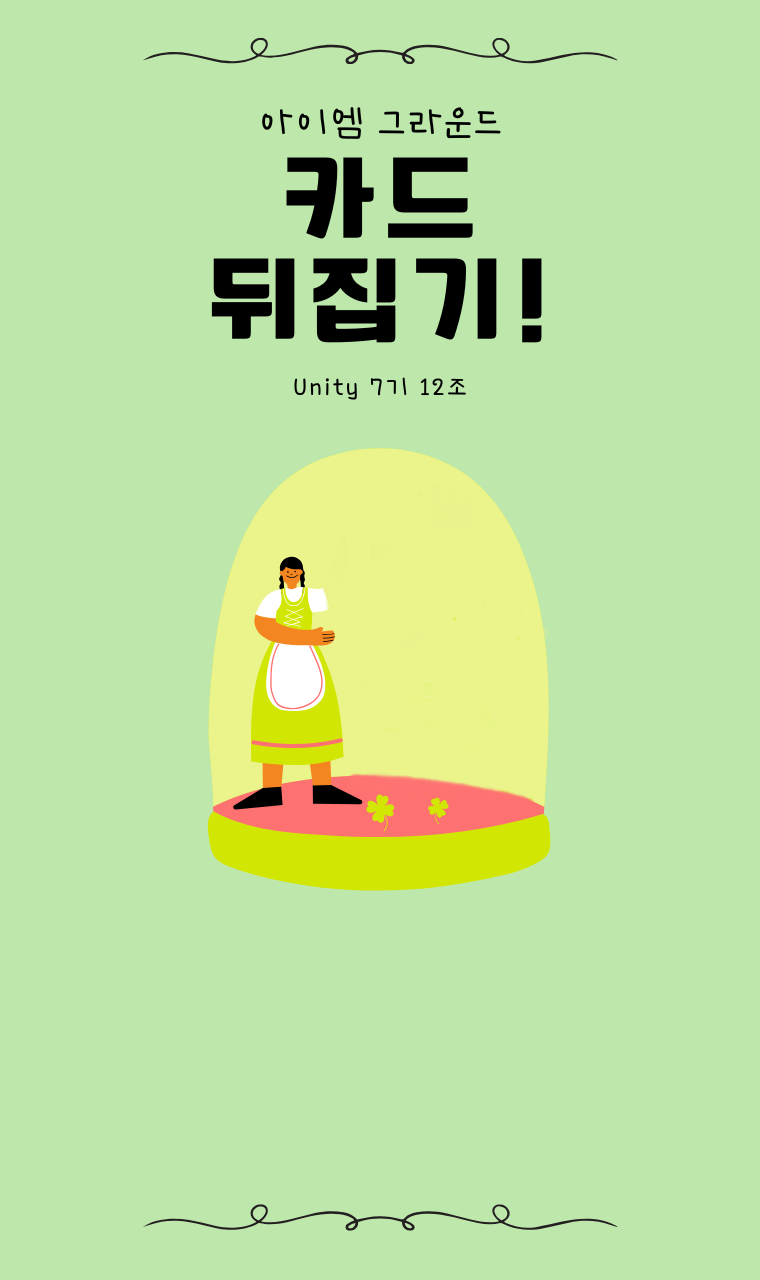
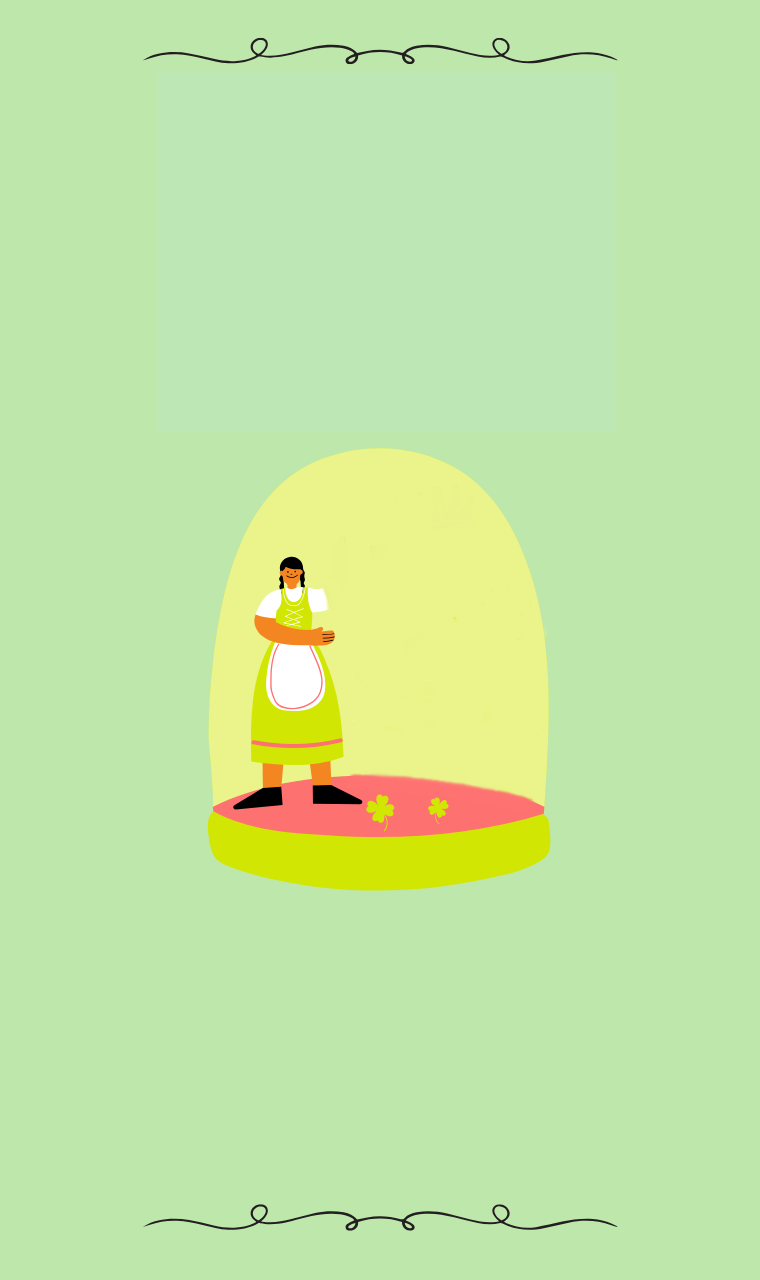
TitleTranslation Update

Changed region(s): [[0.2724, 0.0625, 0.7263, 0.3125]]

diff --git a/Assets/Scripts/TextManager.cs b/Assets/Scripts/TextManager.cs
@@ -14,6 +14,9 @@ public class TextManager : MonoBehaviour
     public Text optionPanelCancleText;
     public Text startBtnTxt;
     public Text optionBtnTxt;
+    public Text topTitleTxt;
+    public Text middleTitleTxt;
+    public Text bottomTitleTxt;
     //public Text gameOutBtnTxt;
 
     public Font fontENG;
@@ -41,7 +44,6 @@ public class TextManager : MonoBehaviour
     public void SettingLanguage(string language)
     {
         nowLanguage = language;
-        Debug.Log("실행");
         //nowLanguage의 언어가 셋 중 하나도 해당하지 않을 경우 현재 언어를 ENG로 변경
         if (nowLanguage != "ENG" &&  nowLanguage != "KOR" && nowLanguage != "JPN")  
         {
@@ -50,12 +52,14 @@ public class TextManager : MonoBehaviour
         Debug.Log("현재 언어: " +  nowLanguage);
         if(nowLanguage == "ENG")
         {
-            Debug.Log("영어 감지");
             SettingFont(fontENG);
             optionPanelCancleText.text = "Apply and Exit";
             startBtnTxt.text = "Start";
             //gameOutBtnTxt.text = "Exit";
             optionBtnTxt.text = "Option";
+            topTitleTxt.text = "Introduce Our Selves";
+            middleTitleTxt.text = "FLIPPING\nCARD GAME";
+            bottomTitleTxt.text = "Unity 7th class 12 group";
         }
         else if (nowLanguage == "KOR")
         {
@@ -64,6 +68,9 @@ public class TextManager : MonoBehaviour
             startBtnTxt.text = "시작하기";
             //gameOutBtnTxt.text = "게임종료";
             optionBtnTxt.text = "옵션";
+            topTitleTxt.text = "아이엠 그라운드";
+            middleTitleTxt.text = "카드\n뒤집기!";
+            bottomTitleTxt.text = "Unity 7기 12조";
         }
         else if (nowLanguage == "JPN")
         {
@@ -72,6 +79,9 @@ public class TextManager : MonoBehaviour
             startBtnTxt.text = "スタート";
             //gameOutBtnTxt.text = "終了";
             optionBtnTxt.text = "設定";
+            topTitleTxt.text = "たのしい！なかよし！";
+            middleTitleTxt.text = "自己紹介\nかるた";
+            bottomTitleTxt.text = "Unity 7期生 12組";
 
         }
         else
